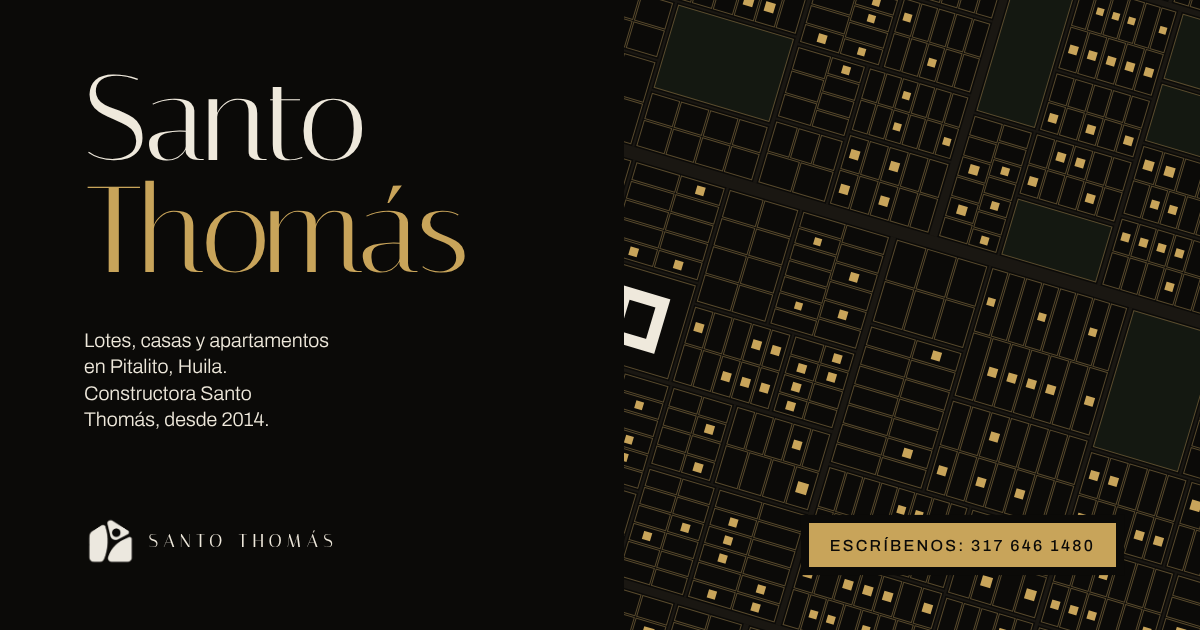
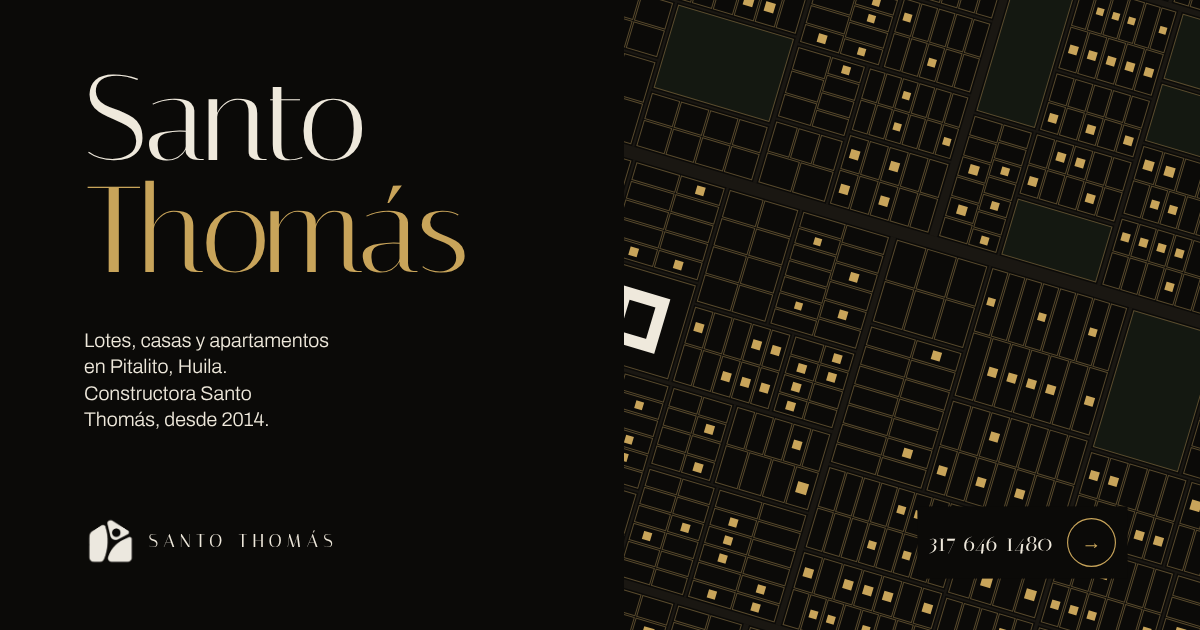
Replace gold block buttons with a serif link and animated arrow circle
Primary actions are now sentence-case serif text beside an outlined
circle that fills with gold and nudges its arrow on hover; the mobile
WhatsApp bar drops its gold fill. Banners follow.

Claude-Session: https://claude.ai/code/session_01EuNx7qHGaqCun31qjyEdxN

Changed region(s): [[0.6475, 0.8143, 0.9558, 0.9048]]

diff --git a/santo-thomas/index.html b/santo-thomas/index.html
@@ -80,10 +80,17 @@ em{font-style:normal;color:var(--oro)}
 .accion:hover::before,.accion:focus-visible::before{width:84px}
 .accion:hover{color:var(--oro)}
 .accion:active::before{width:96px}
-.accion.oro{background:var(--oro);color:var(--negro);padding:0 28px;min-height:54px;gap:0;transition:background .3s,transform .15s}
+/* Acción principal: texto en serif y un círculo con flecha que se llena de oro al pasar */
+.accion.oro{gap:18px;min-height:56px;padding:0;background:none;color:inherit;font-family:var(--serif);font-size:clamp(21px,1.7vw,26px);font-weight:400;letter-spacing:0;text-transform:none;line-height:1.1}
 .accion.oro::before{display:none}
-.accion.oro:hover{background:#d8b871;color:var(--negro)}
-.accion.oro:active{transform:translateY(2px)}
+.accion.oro > span{background:linear-gradient(var(--oro),var(--oro)) left bottom/0 1px no-repeat;padding-bottom:5px;transition:background-size .6s var(--salir)}
+.accion.oro::after{content:"\2192";flex:none;display:grid;place-items:center;width:56px;height:56px;border-radius:50%;font:300 20px/1 Archivo,sans-serif;color:var(--oro);box-shadow:inset 0 0 0 1px var(--oro);background:radial-gradient(circle,var(--oro) 50%,transparent 51%) center/0 0 no-repeat;transition:background-size .55s var(--salir),color .3s,transform .55s var(--salir)}
+.accion.oro.abajo::after{content:"\2193"}
+.accion.oro:hover,.accion.oro:focus-visible{color:inherit}
+.accion.oro:hover > span,.accion.oro:focus-visible > span{background-size:100% 1px}
+.accion.oro:hover::after,.accion.oro:focus-visible::after{background-size:220% 220%;color:var(--negro);transform:translateX(8px)}
+.accion.oro.abajo:hover::after{transform:translateY(6px)}
+.accion.oro:active::after{transform:scale(.92)}
 .enlace{text-decoration:underline;text-decoration-color:var(--bronce);text-decoration-thickness:1px;text-underline-offset:5px;transition:color .25s}
 .enlace:hover{color:var(--oro)}
 
@@ -286,8 +293,9 @@ em{font-style:normal;color:var(--oro)}
 .cierre .campo .rot{color:rgba(11,10,8,.72)}
 .cierre .campo .enlace{text-decoration-color:rgba(11,10,8,.5)}
 .cierre .campo .enlace:hover{color:var(--negro);text-decoration-color:var(--negro)}
-.cierre .campo .accion.oro{background:var(--negro);color:var(--marfil)}
-.cierre .campo .accion.oro:hover{background:#1c1914;color:var(--marfil)}
+.cierre .campo .accion.oro > span{background-image:linear-gradient(var(--negro),var(--negro))}
+.cierre .campo .accion.oro::after{color:var(--negro);box-shadow:inset 0 0 0 1px var(--negro);background-image:radial-gradient(circle,var(--negro) 50%,transparent 51%)}
+.cierre .campo .accion.oro:hover::after{color:var(--oro)}
 .cierre .datos{display:grid;gap:clamp(32px,5vw,80px);padding-bottom:clamp(64px,9vw,140px)}
 @media(min-width:900px){.cierre .datos{grid-template-columns:repeat(12,minmax(0,1fr));column-gap:var(--m);align-items:end}.cierre .datos > div{grid-column:1/8}.cierre address{grid-column:9/13}}
 .cierre .tel{font-family:var(--serif);font-size:clamp(48px,8vw,132px);letter-spacing:0;color:var(--negro);line-height:.9;text-decoration:none;display:inline-block;margin-block:22px 30px;transition:color .25s}
@@ -296,7 +304,7 @@ em{font-style:normal;color:var(--oro)}
 .cierre .firma{padding-top:clamp(48px,7vw,100px);font-family:var(--serif);font-size:15vw;line-height:.86;letter-spacing:-.015em;white-space:nowrap;text-align:center;color:var(--carbon-2);padding-bottom:.06em;user-select:none}
 .cierre .pie{padding:22px var(--m);border-top:1px solid var(--linea);display:flex;flex-wrap:wrap;gap:8px 24px;justify-content:space-between}
 
-.flota{position:fixed;left:0;right:0;bottom:0;z-index:14;display:none;justify-content:center;padding:14px var(--m) calc(14px + env(safe-area-inset-bottom));background:var(--oro);color:var(--negro);text-decoration:none;font-size:11px;font-weight:600;letter-spacing:.24em;text-transform:uppercase}
+.flota{position:fixed;left:0;right:0;bottom:0;z-index:14;display:none;justify-content:center;padding:14px var(--m) calc(14px + env(safe-area-inset-bottom));background:var(--negro);color:var(--oro);border-top:1px solid var(--linea);text-decoration:none;font-size:11px;font-weight:500;letter-spacing:.24em;text-transform:uppercase}
 @media(max-width:899px){.flota{display:flex}body{padding-bottom:52px}}
 </style>
 <script>document.documentElement.classList.add('js')</script>
@@ -331,7 +339,7 @@ em{font-style:normal;color:var(--oro)}
   <div class="pie">
     <div class="apoyo">
       <p data-sube style="--i:4">Lotes, casas y apartamentos en Pitalito. Constructora Santo Thomás urbaniza y construye en el sur del Huila desde 2014.</p>
-      <a class="accion oro" data-sube style="--i:5" href="#proyectos">Ver los proyectos</a>
+      <a class="accion oro abajo" data-sube style="--i:5" href="#proyectos"><span>Ver los proyectos</span></a>
     </div>
     <p class="rot coord" data-sube style="--i:5">Pitalito, Huila<br><b>Valle de Laboyos</b></p>
   </div>
@@ -403,7 +411,7 @@ em{font-style:normal;color:var(--oro)}
             <h3>Santo Thomás <em>Urbanismo</em></h3>
             <p>Lotes residenciales y comerciales en Pitalito, con vías, conexión a servicios públicos y zonas verdes.</p>
             <dl class="ficha"><dt>Tipo</dt><dd>Lotes residenciales y comerciales</dd><dt>Lugar</dt><dd>Pitalito, Huila</dd></dl>
-            <a class="accion oro" href="https://wa.me/573176461480?text=Hola%2C%20quiero%20conocer%20los%20lotes%20disponibles%20en%20Santo%20Thom%C3%A1s%20Urbanismo.">Pedir áreas y precios</a>
+            <a class="accion oro" href="https://wa.me/573176461480?text=Hola%2C%20quiero%20conocer%20los%20lotes%20disponibles%20en%20Santo%20Thom%C3%A1s%20Urbanismo."><span>Pedir áreas y precios</span></a>
           </div>
         </div>
       </article>
@@ -416,7 +424,7 @@ em{font-style:normal;color:var(--oro)}
             <h3>Torre <em>Santo Thomás</em></h3>
             <p>Apartamentos sobre una plataforma de locales comerciales. Las imágenes son renders: muestran el diseño, no la obra terminada.</p>
             <dl class="ficha"><dt>Tipo</dt><dd>Apartamentos y locales</dd><dt>Lugar</dt><dd>Pitalito, Huila</dd></dl>
-            <a class="accion oro" href="https://wa.me/573176461480?text=Hola%2C%20quiero%20informaci%C3%B3n%20sobre%20la%20Torre%20Santo%20Thom%C3%A1s.">Pedir planos de la torre</a>
+            <a class="accion oro" href="https://wa.me/573176461480?text=Hola%2C%20quiero%20informaci%C3%B3n%20sobre%20la%20Torre%20Santo%20Thom%C3%A1s."><span>Pedir planos de la torre</span></a>
           </div>
         </div>
       </article>
@@ -429,7 +437,7 @@ em{font-style:normal;color:var(--oro)}
             <h3>Casas <em>y edificios</em></h3>
             <p>Casas de uno y dos pisos en Pitalito, y edificios de apartamentos con locales en el primer piso.</p>
             <dl class="ficha"><dt>Tipo</dt><dd>Vivienda de uno a cuatro pisos</dd><dt>Lugar</dt><dd>Pitalito, Huila</dd></dl>
-            <a class="accion oro" href="https://wa.me/573176461480?text=Hola%2C%20quiero%20informaci%C3%B3n%20sobre%20las%20casas%20de%20Constructora%20Santo%20Thom%C3%A1s.">Preguntar por casas</a>
+            <a class="accion oro" href="https://wa.me/573176461480?text=Hola%2C%20quiero%20informaci%C3%B3n%20sobre%20las%20casas%20de%20Constructora%20Santo%20Thom%C3%A1s."><span>Preguntar por casas</span></a>
           </div>
         </div>
       </article>
@@ -485,7 +493,7 @@ em{font-style:normal;color:var(--oro)}
         <label><span><input type="radio" name="tipo" value="torre">Apartamento</span></label>
       </div>
       <input type="hidden" name="text" id="busca-texto" value="Hola, estoy buscando un lote residencial en Pitalito. ¿Qué tienen disponible?">
-      <button class="accion oro" type="submit" data-sube style="--i:3" id="busca-btn">Preguntar por lotes residenciales</button>
+      <button class="accion oro" type="submit" data-sube style="--i:3" id="busca-btn"><span>Preguntar por lotes residenciales</span></button>
     </form>
     <div data-sube style="--i:2">
       <div class="plano"><canvas id="plano" role="img" aria-label="Plano ilustrativo de una urbanización que resalta el tipo de inmueble elegido."></canvas></div>
@@ -512,7 +520,7 @@ em{font-style:normal;color:var(--oro)}
     <div>
       <p class="rot" data-sube>Contacto</p>
       <a class="tel" data-sube style="--i:1" href="tel:+573176461480">317 646 1480</a><br>
-      <a class="accion oro" data-sube style="--i:2" href="https://wa.me/573176461480?text=Hola%2C%20quiero%20informaci%C3%B3n%20sobre%20los%20proyectos%20de%20Constructora%20Santo%20Thom%C3%A1s.">Escribir por WhatsApp</a>
+      <a class="accion oro" data-sube style="--i:2" href="https://wa.me/573176461480?text=Hola%2C%20quiero%20informaci%C3%B3n%20sobre%20los%20proyectos%20de%20Constructora%20Santo%20Thom%C3%A1s."><span>Escribir por WhatsApp</span></a>
     </div>
     <address data-sube style="--i:2">
       <span>Carrera 15 No. 19A-01 Sur, local 148<br>Centro Comercial Gran Plaza San Antonio<br>Pitalito, Huila</span>
@@ -662,7 +670,7 @@ em{font-style:normal;color:var(--oro)}
   }
   form.addEventListener('change', function (e) {
     if (e.target.name !== 'tipo') return;
-    btn.textContent = copia[e.target.value][0]; texto.value = copia[e.target.value][1];
+    btn.firstElementChild.textContent = copia[e.target.value][0]; texto.value = copia[e.target.value][1];
     if (busca) { busca.tipo = e.target.value; busca.pintar(); }
   });
   form.addEventListener('submit', function (e) {

diff --git a/santo-thomas/banners/banners.html b/santo-thomas/banners/banners.html
@@ -16,7 +16,8 @@ h1{font-family:'Italiana',serif;font-weight:400;letter-spacing:-.015em;line-heig
 .fila{display:flex;align-items:flex-end;justify-content:space-between;gap:4cqw}
 .marca{display:flex;align-items:center;gap:calc(var(--u)*2);font-family:'Italiana',serif;font-weight:400;font-size:max(16px,calc(var(--u)*3.2));letter-spacing:.28em;text-transform:uppercase}
 .marca img{height:calc(var(--u)*9);width:auto}
-.cta{background:var(--oro);color:var(--tinta);font-weight:500;letter-spacing:.14em;text-transform:uppercase;font-size:max(16px,calc(var(--u)*2.5));min-height:44px;padding:calc(var(--u)*2.2) calc(var(--u)*3.6);display:flex;align-items:center;white-space:nowrap}
+.cta{color:var(--cal);font-family:'Italiana',serif;font-size:max(18px,calc(var(--u)*4.2));min-height:44px;display:flex;align-items:center;gap:calc(var(--u)*2.4);white-space:nowrap}
+.cta::after{content:"\2192";display:grid;place-items:center;width:calc(var(--u)*8.5);height:calc(var(--u)*8.5);min-width:40px;min-height:40px;border-radius:50%;font:300 calc(var(--u)*3.4)/1 Archivo,sans-serif;color:var(--oro);box-shadow:inset 0 0 0 max(1px,calc(var(--u)*.2)) var(--oro)}
 /* A · Foto */
 .foto{background:var(--tinta)}
 .foto .img{position:absolute;inset:0;background:url(../img/aerea-loteo.webp) 50% 55%/cover}
@@ -31,7 +32,7 @@ h1{font-family:'Italiana',serif;font-weight:400;letter-spacing:-.015em;line-heig
 .loteo .panel{position:absolute;left:0;top:0;bottom:0;width:var(--panel);background:var(--campo-osc)}
 .loteo.alto .panel{width:100%;height:56%;bottom:auto}
 .loteo.alto .marca{background:var(--campo-osc);padding:calc(var(--u)*2) calc(var(--u)*3);margin-left:calc(var(--u)*-3)}
-.loteo .cta{box-shadow:0 0 0 calc(var(--u)*1.4) var(--campo-osc)}
+.loteo .cta{background:var(--campo-osc);box-shadow:0 0 0 calc(var(--u)*2) var(--campo-osc)}
 .loteo h1,.loteo .sub{max-width:7ch}.loteo .sub{max-width:22ch}
 .ancho h1,.tipografia.ancho h1{max-width:16ch;font-size:calc(var(--u)*19)}
 .ancho .sub{margin-top:calc(var(--u)*5);max-width:44ch}
@@ -49,7 +50,7 @@ h1 em{font-style:normal;color:var(--oro)}
     </div>
     <div class="fila">
       <div class="marca"><img src="../img/isotipo-solido.png" alt="">Santo Thomás</div>
-      <div class="cta">Escríbenos: 317 646 1480</div>
+      <div class="cta">317 646 1480</div>
     </div>
   </div>
 </div>
